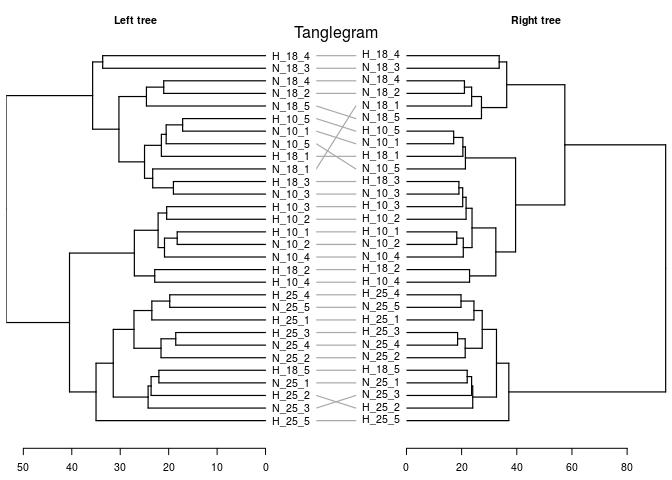
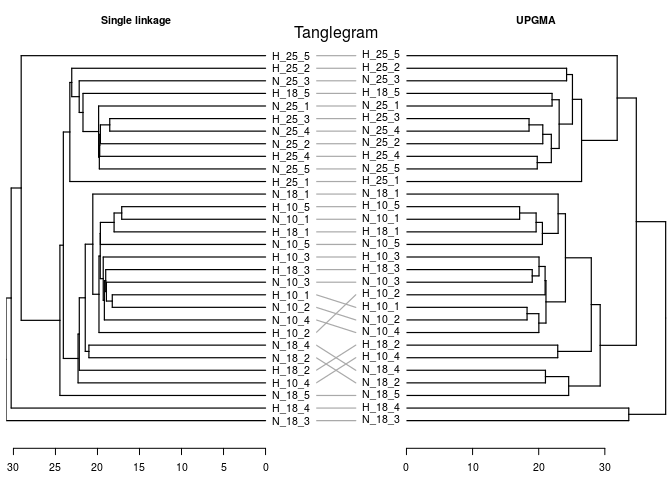
added classification to menue

diff --git a/03_classification.html b/03_classification.html
@@ -320,11 +320,11 @@ div.tocify {
 <!--             <li class="dropdown-header">Начало работы</li>
 --->
              <li><a href="00_introduction.html">О модуле Анализ протеомных данных</a></li>
-             <li><a href="01_introduction_to_r.html">Знакомство с R</a></li>
              <li class="divider"></li>
+             <li><a href="01_introduction_to_r.html">Знакомство с R</a></li>
              <li><a href="02_data_preprocessing.html">Предварительная обработка данных</a></li>
-             <!--
              <li><a href="03_classification.html">Классификация</a></li>
+             <!--
              <li><a href="04_differential_expression_analysis.html">Выявление дифференциально-экспрессируемых пептидов</a></li>
              <li><a href="05_multivariate_methods_pca.html">Многомерные методы (PCA)</a></li>
 --->
@@ -1072,19 +1072,18 @@ cl_boot &lt;-<span class="st"> </span><span class="kw">pvclust</span>(expr_log, 
 <h2>Танглграмма</h2>
 <p>Два дерева (с непохожим ветвлением) выравнивают, вращая случайным образом ветви вокруг оснований. Итеративный алгоритм. Картина каждый раз разная.</p>
 <div class="sourceCode"><pre class="sourceCode r"><code class="sourceCode r"><span class="kw">set.seed</span>(<span class="dv">395</span>)
-untang_w &lt;-<span class="st"> </span><span class="kw">untangle_step_rotate_2side</span>(den_compl, den_w2, <span class="dt">print_times =</span> F)
-
+untang_w &lt;-<span class="st"> </span><span class="kw">untangle_step_rotate_2side</span>(den_single, den_avg, <span class="dt">print_times =</span> F)
 <span class="co"># танглграмма</span>
 <span class="kw">tanglegram</span>(untang_w[[<span class="dv">1</span>]], untang_w[[<span class="dv">2</span>]],
            <span class="dt">highlight_distinct_edges =</span> <span class="ot">FALSE</span>,
            <span class="dt">common_subtrees_color_lines =</span> F,
            <span class="dt">main =</span> <span class="st">&quot;Tanglegram&quot;</span>,
-           <span class="dt">main_left =</span> <span class="st">&quot;Left tree&quot;</span>,
-           <span class="dt">main_right =</span> <span class="st">&quot;Right tree&quot;</span>,
+           <span class="dt">main_left =</span> <span class="st">&quot;Single linkage&quot;</span>,
+           <span class="dt">main_right =</span> <span class="st">&quot;UPGMA&quot;</span>,
            <span class="dt">columns_width =</span> <span class="kw">c</span>(<span class="dv">8</span>, <span class="dv">1</span>, <span class="dv">8</span>),
            <span class="dt">margin_top =</span> <span class="fl">3.2</span>, <span class="dt">margin_bottom =</span> <span class="fl">2.5</span>,
            <span class="dt">margin_inner =</span> <span class="dv">4</span>, <span class="dt">margin_outer =</span> <span class="fl">0.5</span>,
-           <span class="dt">lwd =</span> <span class="fl">1.2</span>, <span class="dt">edge.lwd =</span> <span class="fl">1.2</span>, 
+           <span class="dt">lwd =</span> <span class="fl">1.2</span>, <span class="dt">edge.lwd =</span> <span class="fl">1.2</span>,
            <span class="dt">lab.cex =</span> <span class="dv">1</span>, <span class="dt">cex_main =</span> <span class="dv">1</span>)</code></pre></div>
 <p><img src="03_classification_files/figure-html/tang-1.png" /><!-- --></p>
 </div>

diff --git a/00_introduction.html b/00_introduction.html
@@ -278,11 +278,11 @@ div.tocify {
 <!--             <li class="dropdown-header">Начало работы</li>
 --->
              <li><a href="00_introduction.html">О модуле Анализ протеомных данных</a></li>
-             <li><a href="01_introduction_to_r.html">Знакомство с R</a></li>
              <li class="divider"></li>
+             <li><a href="01_introduction_to_r.html">Знакомство с R</a></li>
              <li><a href="02_data_preprocessing.html">Предварительная обработка данных</a></li>
-             <!--
              <li><a href="03_classification.html">Классификация</a></li>
+             <!--
              <li><a href="04_differential_expression_analysis.html">Выявление дифференциально-экспрессируемых пептидов</a></li>
              <li><a href="05_multivariate_methods_pca.html">Многомерные методы (PCA)</a></li>
 --->

diff --git a/01_introduction_to_r.html b/01_introduction_to_r.html
@@ -316,11 +316,11 @@ div.tocify {
 <!--             <li class="dropdown-header">Начало работы</li>
 --->
              <li><a href="00_introduction.html">О модуле Анализ протеомных данных</a></li>
-             <li><a href="01_introduction_to_r.html">Знакомство с R</a></li>
              <li class="divider"></li>
+             <li><a href="01_introduction_to_r.html">Знакомство с R</a></li>
              <li><a href="02_data_preprocessing.html">Предварительная обработка данных</a></li>
-             <!--
              <li><a href="03_classification.html">Классификация</a></li>
+             <!--
              <li><a href="04_differential_expression_analysis.html">Выявление дифференциально-экспрессируемых пептидов</a></li>
              <li><a href="05_multivariate_methods_pca.html">Многомерные методы (PCA)</a></li>
 --->

diff --git a/02_data_preprocessing.html b/02_data_preprocessing.html
@@ -316,11 +316,11 @@ div.tocify {
 <!--             <li class="dropdown-header">Начало работы</li>
 --->
              <li><a href="00_introduction.html">О модуле Анализ протеомных данных</a></li>
-             <li><a href="01_introduction_to_r.html">Знакомство с R</a></li>
              <li class="divider"></li>
+             <li><a href="01_introduction_to_r.html">Знакомство с R</a></li>
              <li><a href="02_data_preprocessing.html">Предварительная обработка данных</a></li>
-             <!--
              <li><a href="03_classification.html">Классификация</a></li>
+             <!--
              <li><a href="04_differential_expression_analysis.html">Выявление дифференциально-экспрессируемых пептидов</a></li>
              <li><a href="05_multivariate_methods_pca.html">Многомерные методы (PCA)</a></li>
 --->

diff --git a/04_differential_expression_analysis.html b/04_differential_expression_analysis.html
@@ -278,11 +278,11 @@ div.tocify {
 <!--             <li class="dropdown-header">Начало работы</li>
 --->
              <li><a href="00_introduction.html">О модуле Анализ протеомных данных</a></li>
-             <li><a href="01_introduction_to_r.html">Знакомство с R</a></li>
              <li class="divider"></li>
+             <li><a href="01_introduction_to_r.html">Знакомство с R</a></li>
              <li><a href="02_data_preprocessing.html">Предварительная обработка данных</a></li>
-             <!--
              <li><a href="03_classification.html">Классификация</a></li>
+             <!--
              <li><a href="04_differential_expression_analysis.html">Выявление дифференциально-экспрессируемых пептидов</a></li>
              <li><a href="05_multivariate_methods_pca.html">Многомерные методы (PCA)</a></li>
 --->

diff --git a/05_multivariate_methods_pca.html b/05_multivariate_methods_pca.html
@@ -316,11 +316,11 @@ div.tocify {
 <!--             <li class="dropdown-header">Начало работы</li>
 --->
              <li><a href="00_introduction.html">О модуле Анализ протеомных данных</a></li>
-             <li><a href="01_introduction_to_r.html">Знакомство с R</a></li>
              <li class="divider"></li>
+             <li><a href="01_introduction_to_r.html">Знакомство с R</a></li>
              <li><a href="02_data_preprocessing.html">Предварительная обработка данных</a></li>
-             <!--
              <li><a href="03_classification.html">Классификация</a></li>
+             <!--
              <li><a href="04_differential_expression_analysis.html">Выявление дифференциально-экспрессируемых пептидов</a></li>
              <li><a href="05_multivariate_methods_pca.html">Многомерные методы (PCA)</a></li>
 --->

diff --git a/06_multivariate_methods_pls-da.html b/06_multivariate_methods_pls-da.html
@@ -278,11 +278,11 @@ div.tocify {
 <!--             <li class="dropdown-header">Начало работы</li>
 --->
              <li><a href="00_introduction.html">О модуле Анализ протеомных данных</a></li>
-             <li><a href="01_introduction_to_r.html">Знакомство с R</a></li>
              <li class="divider"></li>
+             <li><a href="01_introduction_to_r.html">Знакомство с R</a></li>
              <li><a href="02_data_preprocessing.html">Предварительная обработка данных</a></li>
-             <!--
              <li><a href="03_classification.html">Классификация</a></li>
+             <!--
              <li><a href="04_differential_expression_analysis.html">Выявление дифференциально-экспрессируемых пептидов</a></li>
              <li><a href="05_multivariate_methods_pca.html">Многомерные методы (PCA)</a></li>
 --->

diff --git a/index.html b/index.html
@@ -315,11 +315,11 @@ div.tocify {
 <!--             <li class="dropdown-header">Начало работы</li>
 --->
              <li><a href="00_introduction.html">О модуле Анализ протеомных данных</a></li>
-             <li><a href="01_introduction_to_r.html">Знакомство с R</a></li>
              <li class="divider"></li>
+             <li><a href="01_introduction_to_r.html">Знакомство с R</a></li>
              <li><a href="02_data_preprocessing.html">Предварительная обработка данных</a></li>
-             <!--
              <li><a href="03_classification.html">Классификация</a></li>
+             <!--
              <li><a href="04_differential_expression_analysis.html">Выявление дифференциально-экспрессируемых пептидов</a></li>
              <li><a href="05_multivariate_methods_pca.html">Многомерные методы (PCA)</a></li>
 --->

diff --git a/_navbar.html b/_navbar.html
@@ -18,11 +18,11 @@
 <!--             <li class="dropdown-header">Начало работы</li>
 --->
              <li><a href="00_introduction.html">О модуле Анализ протеомных данных</a></li>
-             <li><a href="01_introduction_to_r.html">Знакомство с R</a></li>
              <li class="divider"></li>
+             <li><a href="01_introduction_to_r.html">Знакомство с R</a></li>
              <li><a href="02_data_preprocessing.html">Предварительная обработка данных</a></li>
-             <!--
              <li><a href="03_classification.html">Классификация</a></li>
+             <!--
              <li><a href="04_differential_expression_analysis.html">Выявление дифференциально-экспрессируемых пептидов</a></li>
              <li><a href="05_multivariate_methods_pca.html">Многомерные методы (PCA)</a></li>
 --->
